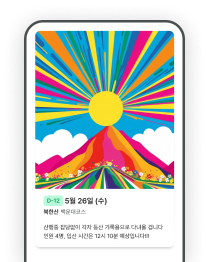
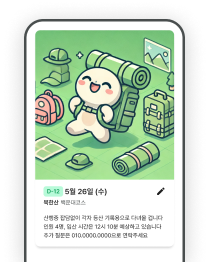
fix : 로그인 캐로쉘 UI 수정

diff --git a/src/pages/login/components/CustomCarousel.tsx b/src/pages/login/components/CustomCarousel.tsx
@@ -1,6 +1,7 @@
 import { EmblaOptionsType } from 'embla-carousel'
 import useEmblaCarousel from 'embla-carousel-react'
 import OnboardingContent from '@/pages/login/components/OnboardingContent.tsx'
+import { useEffect } from 'react'
 
 type DataType = {
   id: number
@@ -11,18 +12,30 @@ type DataType = {
 type PropType = {
   data: DataType[]
   options?: EmblaOptionsType
+  setNumber: (id: number) => void
 }
 
 const CustomCarousel = (props: PropType) => {
-  const { data, options } = props
-  const [emblaRef] = useEmblaCarousel(options)
+  const { data, options, setNumber } = props
+  const [emblaRef, emblaApi] = useEmblaCarousel(options)
+
+  useEffect(() => {
+    if (emblaApi) {
+      const onSelect = () => {
+        const selectedIndex = emblaApi.selectedScrollSnap()
+        setNumber(data[selectedIndex].id)
+      }
+      emblaApi.on('select', onSelect)
+      onSelect()
+    }
+  }, [emblaApi, setNumber, data])
 
   return (
     <div className="max-w-[500px]">
-      <div className="overflow-hidden" ref={emblaRef}>
-        <div className="flex">
+      <div className="overflow-hidden px-10" ref={emblaRef}>
+        <div className="flex gap-5">
           {data.map(item => (
-            <div className="w-3/4 flex-shrink-0 pl-5" key={item.id}>
+            <div className="w-full flex-shrink-0" key={item.id}>
               <OnboardingContent key={item.id} img={item.img} text={item.text} />
             </div>
           ))}

diff --git a/src/pages/login/index.tsx b/src/pages/login/index.tsx
@@ -1,6 +1,7 @@
 import kakao_login from '@/assets/images/kakao_login.png'
 import { EmblaOptionsType } from 'embla-carousel'
 import CustomCarousel from '@/pages/login/components/CustomCarousel.tsx'
+import { useState } from 'react'
 
 const data = [
   {
@@ -24,9 +25,10 @@ const data = [
     text: '지금부터 산너머산 시작 하겠습니다 ~~',
   },
 ]
-const OPTIONS: EmblaOptionsType = { loop: true }
+const OPTIONS: EmblaOptionsType = { loop: false }
 
 const Login = () => {
+  const [number, setNumber] = useState<number | null>(null)
   const Rest_api_key = import.meta.env.VITE_REST_API_KEY
   const Redirect_uri = `${window.location.origin}/auth`
   // oauth 요청 URL
@@ -36,10 +38,14 @@ const Login = () => {
   }
   return (
     <div className="fixed inset-0 z-50 flex flex-col items-center justify-center gap-5 bg-black/60">
-      <CustomCarousel data={data} options={OPTIONS} />
-      <button onClick={handleLogin}>
-        <img src={kakao_login} alt="kakao_login_img" />
-      </button>
+      <CustomCarousel data={data} options={OPTIONS} setNumber={setNumber} />
+      {number === 4 ? (
+        <button onClick={handleLogin}>
+          <img src={kakao_login} alt="kakao_login_img" />
+        </button>
+      ) : (
+        <div className="pt-[45px]" />
+      )}
     </div>
   )
 }
